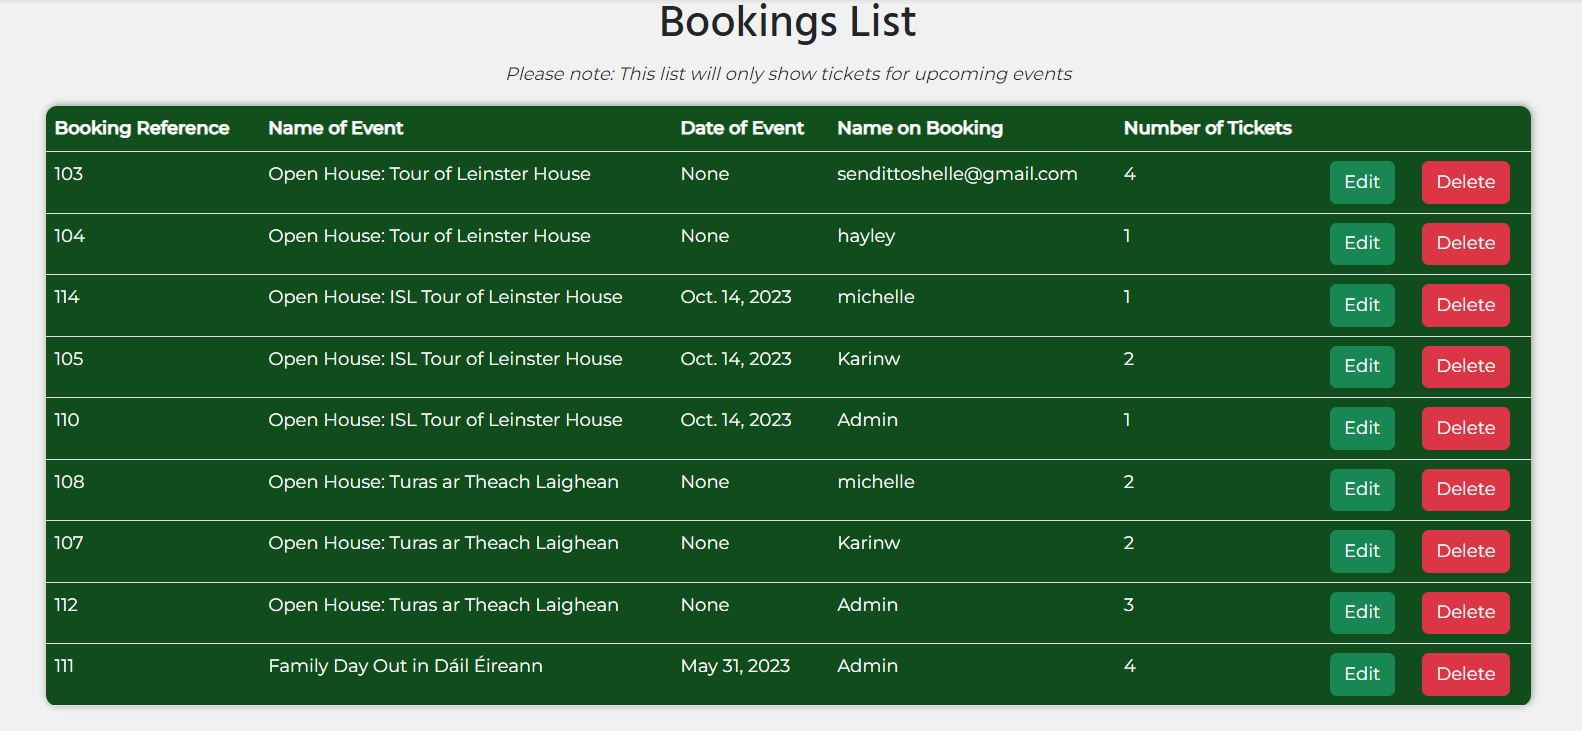
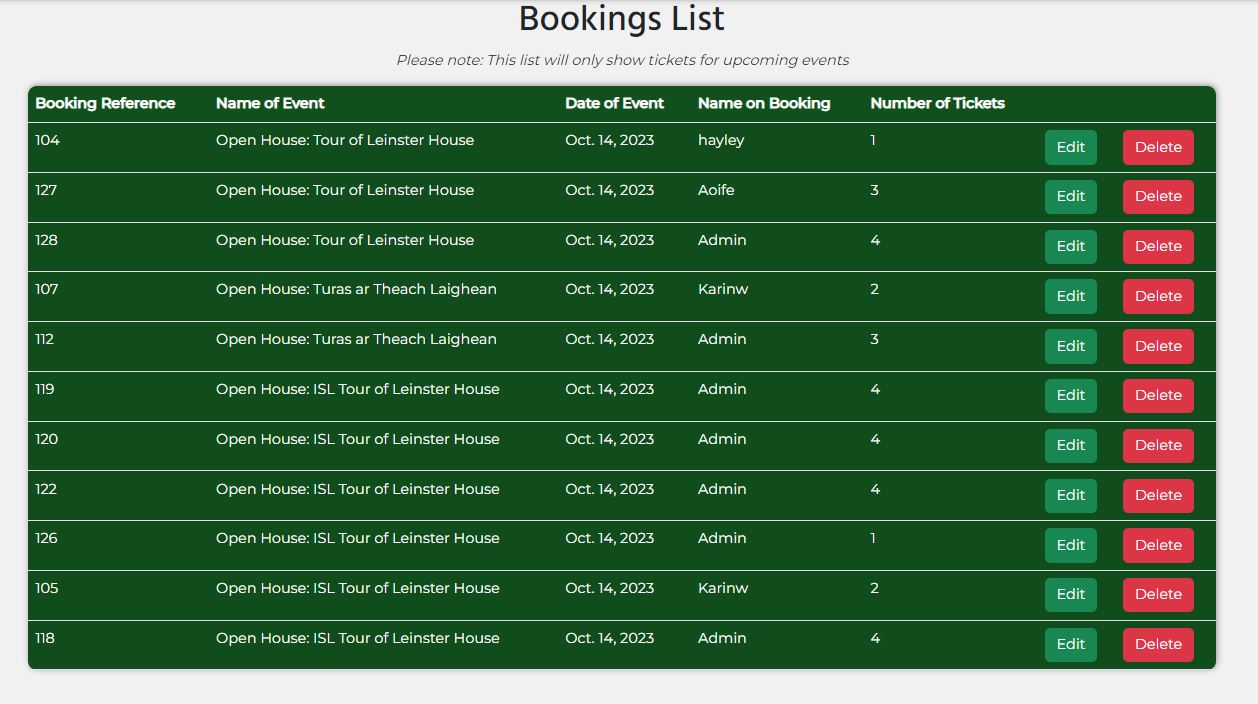
Doc: Update images for bookings section and update difference betwen active v's deleted events for bookings

diff --git a/home/models.py b/home/models.py
@@ -5,7 +5,7 @@ import cloudinary
 
 class CarouselImage(models.Model):
     """
-    A model to create aa carousel
+    A model to create a carousel
     """
     image = cloudinary.models.CloudinaryField("image")
     caption = models.CharField(max_length=255, blank=True)

diff --git a/README.md b/README.md
@@ -318,7 +318,7 @@ This will allow staff the ability to create an event and publish it to the websi
 
 ![Edit event page image](docs/readme_images/features/edit_event.jpg) 
 
-On the event page, an edit button displays for staff and admin users only, this allows staff to easily edit any of the details or make the page inactive if they no longer want to display to the website, this will not delete the event. 
+On the event page, an edit button displays for staff and admin users only, this allows staff to easily edit any of the details or make the page inactive if they no longer want it to display on the website, this will not delete the event. If users have booked tickets for the event and it is made inactive, the tickets will still appear in their [Manage bookings view](#manage-bookings).
 
 #### Delete event page
 
@@ -326,7 +326,7 @@ On the event page, an edit button displays for staff and admin users only, this 
 
 ![Edit event page image](docs/readme_images/features/delete_event.jpg) 
 
-On the event page, a delete button displays for staff and admin users only, this allows staff to delete an event, once the button is selected, they will be taken to a confirmation page to confirm that they do want to delete the event. 
+On the event page, a delete button displays for staff and admin users only, this allows staff to delete an event, once the button is selected, they will be taken to a confirmation page to confirm that they do want to delete the event. Once an event has been deleted, any ticket bookings associated with that event will also be deleted.
 
 ### Booking pages
 
@@ -337,6 +337,10 @@ On the event page, a delete button displays for staff and admin users only, this
 ![Book tickets page image](docs/readme_images/features/create_booking.jpg) 
 
 A booking page was created with a form that allows users to select the event that they would like to attend and the number of tickets they require for the event. Each user can book a maximum of 4 tickets per booking.
+
+![Book tickets page image](docs/readme_images/features/booking-validation-max-capicity.jpg) 
+
+![Book tickets page image](docs/readme_images/features/booking-validation-per-booking.jpg) 
 
 Logic was added to the form validation to ensure the user does not book more than 4 tickets per booking and also there is enough tickets left to book, as there is a max capacity for each event.
 
@@ -356,7 +360,9 @@ Custom toast messages were implemented on the successful creation of bookings. T
 
 ![Manage booking for users image](docs/readme_images/features/manage-booking.jpg) 
 
-For users, a manage bookings page was create with validation checks on the user. This shows all of the users’ bookings. This will allow the user to view their upcoming bookings when needed. The user has the option to delete there booking from this page also. 
+For users, a manage bookings page was created with validation checks on the user. This shows all of the users’ bookings. This will allow the user to view their upcoming bookings when needed. The user has the option to delete there booking from this page also. 
+
+![Manage booking for users image](docs/readme_images/features/manage-booking-none.jpg) 
 
 If the user has not booked any tickets, a message "You have not booked any tickets" will appear on the manage booking page.
 
